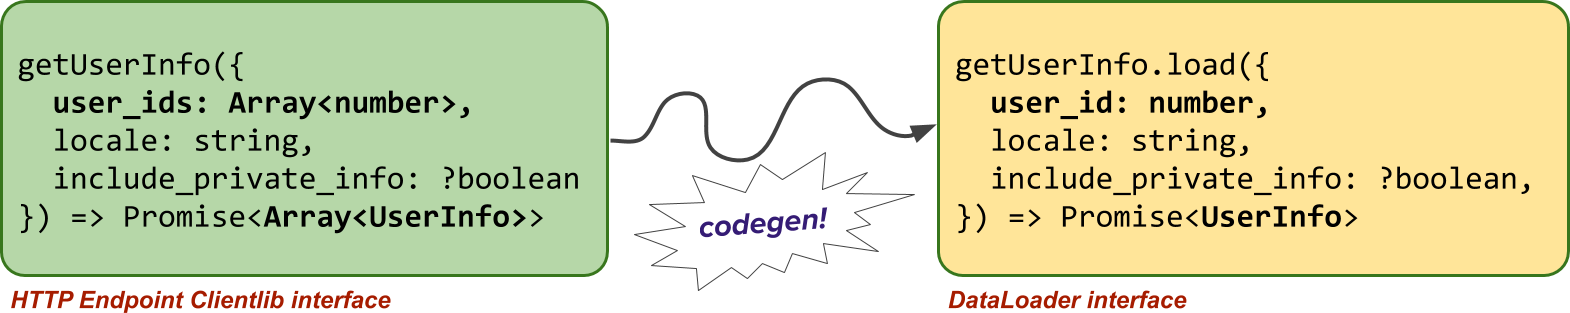
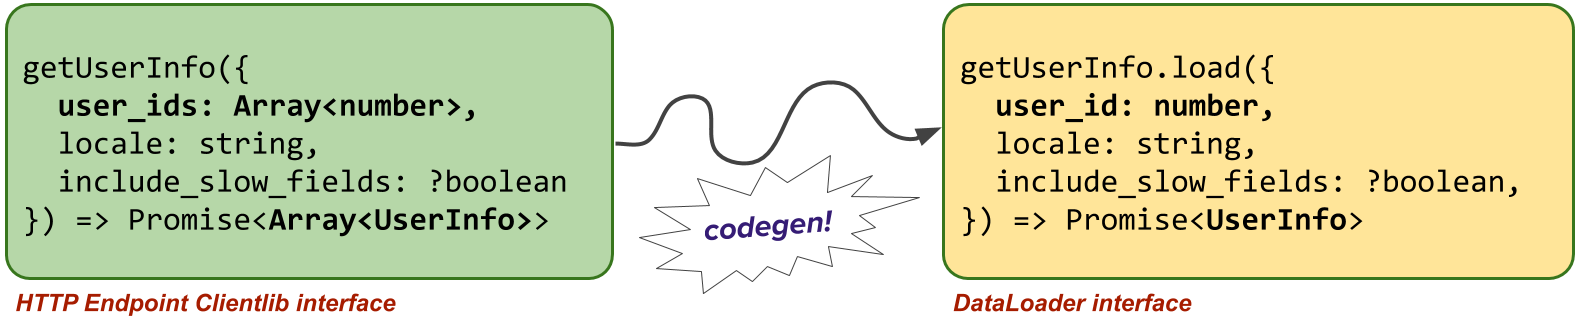
fix README.md

diff --git a/README.md b/README.md
@@ -110,18 +110,17 @@ Consider the following resource that returns information about users:
 const getUserInfo = (args: {
     user_ids: Array<number>,
     locale: string,
-    include_private_info?: boolean,
+    include_slow_fields?: boolean,
 }): Promise<Array<UserInfo>> => fetch('/userInfo', args);
 ```
 
 This is a [batch resource](https://www.codementor.io/blog/batch-endpoints-6olbjay1hd) that accepts a list of users (`user_ids`) and returns a list of corresponding user objects (`Array<UserInfo>`).
 
-For the DataLoader version of this, we'll want to instead ask for a _single_ user
+For the DataLoader version of this, we'll want to instead ask for a **single** user
 object at a time. This means we need to transform the interface in the following
 ways:
 
-1. Call `.load` with the same arguments, but switch "user*ids" to "user_id".
-   (\_Because we're only asking for the one user!*)
+1. Call `.load` with the same arguments, but switch "user_ids" to "user_id".
 
 2. Return a _single_ `UserInfo` object from `.load`, instead of an _array_ of
    `UserInfo` objects.
